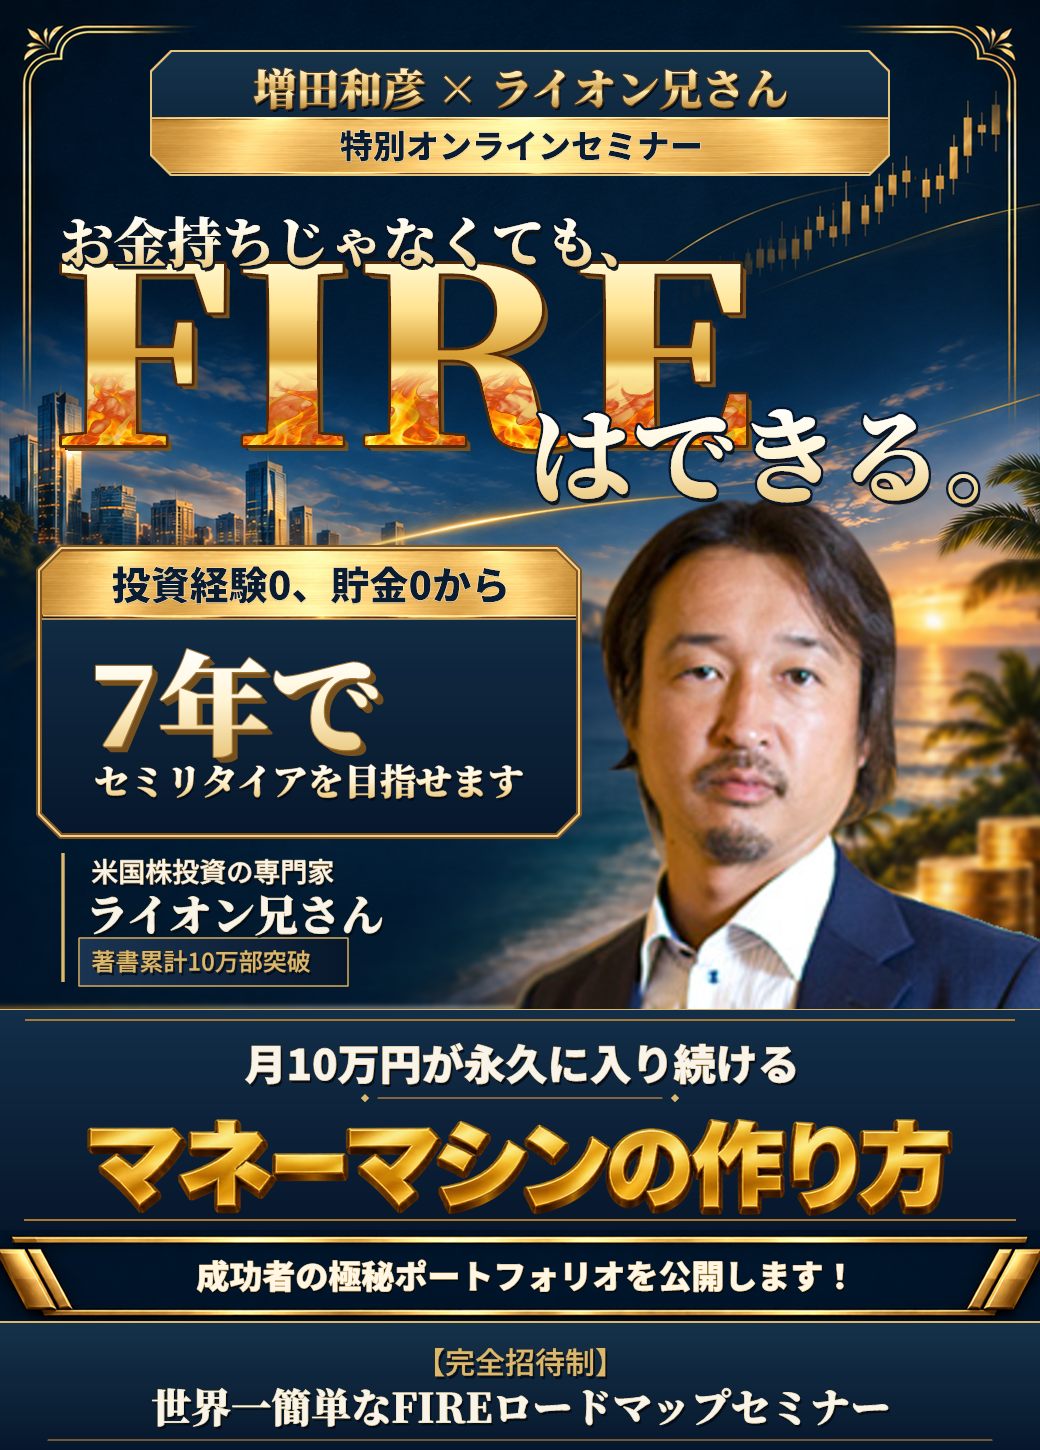
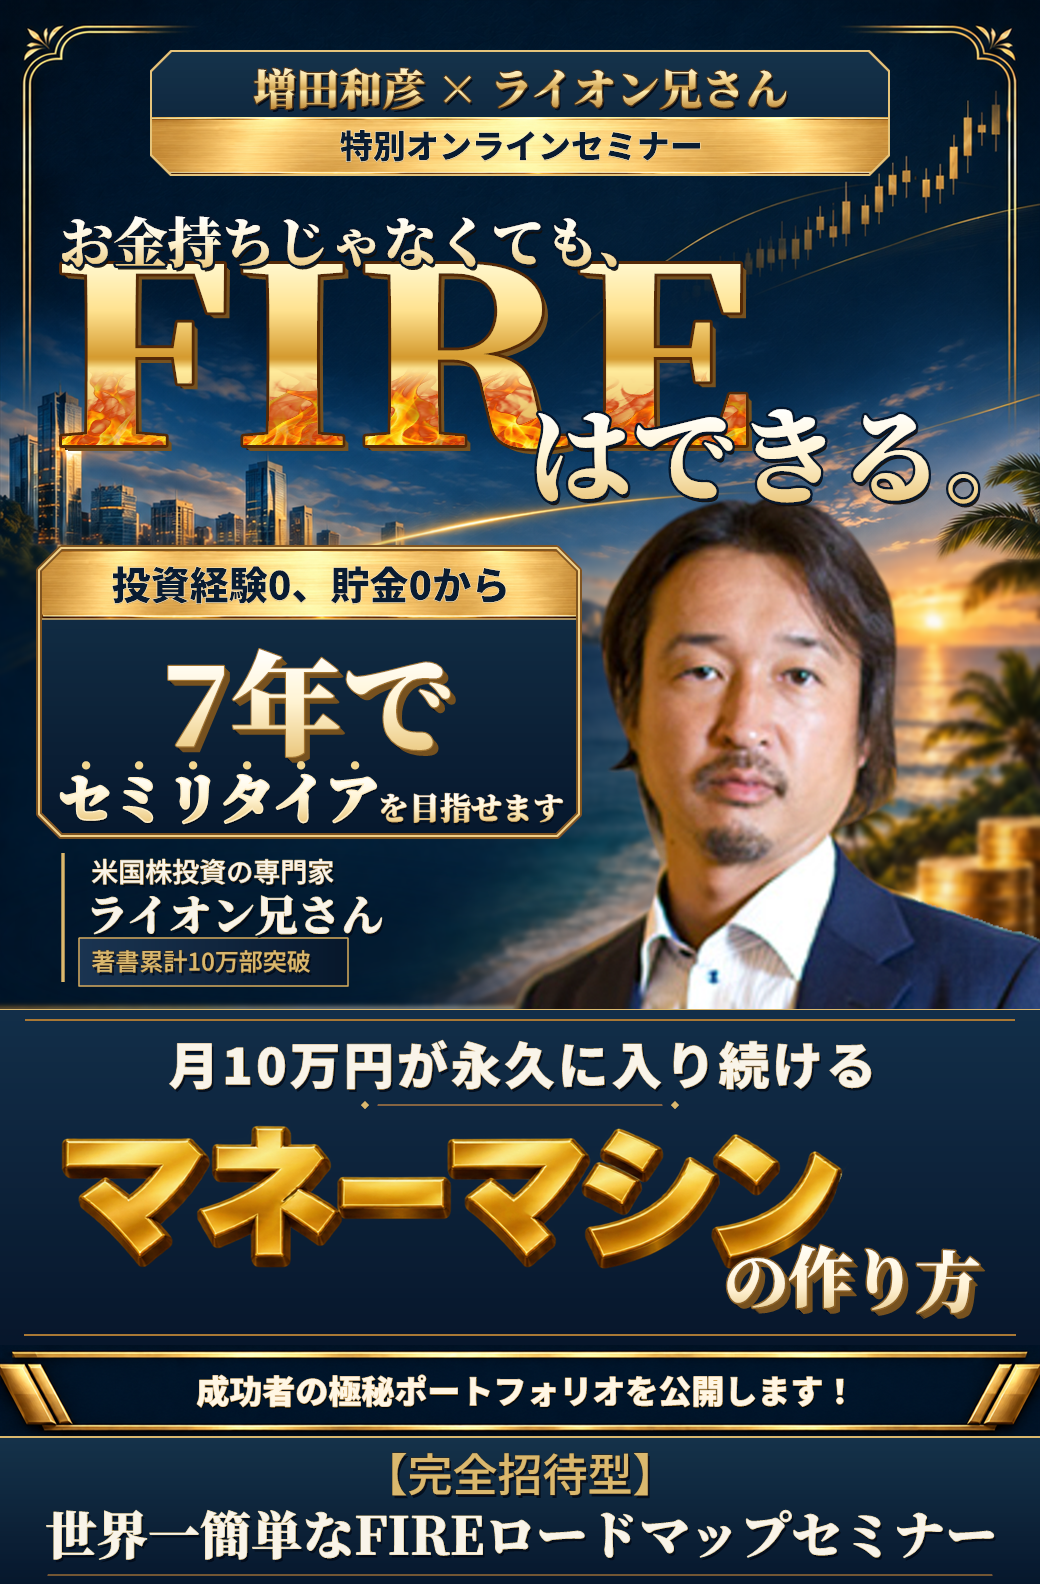
Replace superseded hero assets in place for the Pages deployment

diff --git a/omikoshi-lion-fv/02/index.html b/omikoshi-lion-fv/02/index.html
@@ -9,7 +9,7 @@
 </head>
 <body>
   <main class="hero" data-design="02">
-    <img class="poster" width="1040" height="1584" fetchpriority="high" src="../assets/02-poster-v3.png" alt="増田和彦とライオン兄さんの特別オンラインセミナー。お金持ちじゃなくてもFIREはできる。月10万円が永久に入り続ける、マネーマシンの作り方。">
+    <img class="poster" width="1040" height="1584" fetchpriority="high" src="../assets/02-poster.png?v=3" alt="増田和彦とライオン兄さんの特別オンラインセミナー。お金持ちじゃなくてもFIREはできる。月10万円が永久に入り続ける、マネーマシンの作り方。">
     <img class="effect fire" width="1040" height="1010" src="../assets/02-fire.webp" alt="" aria-hidden="true">
     <img class="effect card-copy" width="508" height="182" src="../assets/02-card-v3.png" alt="" aria-hidden="true">
     <div class="effect gold-surface" aria-hidden="true"><div class="reflection"></div></div>

diff --git a/omikoshi-lion-fv/01/index.html b/omikoshi-lion-fv/01/index.html
@@ -9,7 +9,7 @@
 </head>
 <body>
   <main class="hero" data-design="01">
-    <img class="poster" width="1040" height="1584" fetchpriority="high" src="../assets/01-poster-v3.png" alt="増田和彦とライオン兄さんの特別オンラインセミナー。お金持ちじゃなくてもFIREはできる。月10万円が永久に入り続ける、マネーマシンの作り方。">
+    <img class="poster" width="1040" height="1584" fetchpriority="high" src="../assets/01-poster.png?v=3" alt="増田和彦とライオン兄さんの特別オンラインセミナー。お金持ちじゃなくてもFIREはできる。月10万円が永久に入り続ける、マネーマシンの作り方。">
     <img class="effect fire" width="704" height="204" src="../assets/01-fire.png" alt="" aria-hidden="true">
     <div class="effect gold-surface" aria-hidden="true"><div class="reflection"></div></div>
     <svg class="effect flare" viewBox="0 0 120 120" aria-hidden="true">

diff --git a/omikoshi-lion-fv/03/index.html b/omikoshi-lion-fv/03/index.html
@@ -9,7 +9,7 @@
 </head>
 <body>
   <main class="hero" data-design="03">
-    <img class="poster" width="1040" height="1584" fetchpriority="high" src="../assets/03-poster-v3.png" alt="増田和彦とライオン兄さんの特別オンラインセミナー。お金持ちじゃなくてもFIREはできる。月10万円が永久に入り続ける、マネーマシンの作り方。">
+    <img class="poster" width="1040" height="1584" fetchpriority="high" src="../assets/03-poster.png?v=3" alt="増田和彦とライオン兄さんの特別オンラインセミナー。お金持ちじゃなくてもFIREはできる。月10万円が永久に入り続ける、マネーマシンの作り方。">
     <img class="effect fire" width="742" height="221" src="../assets/03-fire.png" alt="" aria-hidden="true">
     <div class="effect gold-surface" aria-hidden="true"><div class="reflection"></div></div>
     <svg class="effect flare" viewBox="0 0 120 120" aria-hidden="true">
